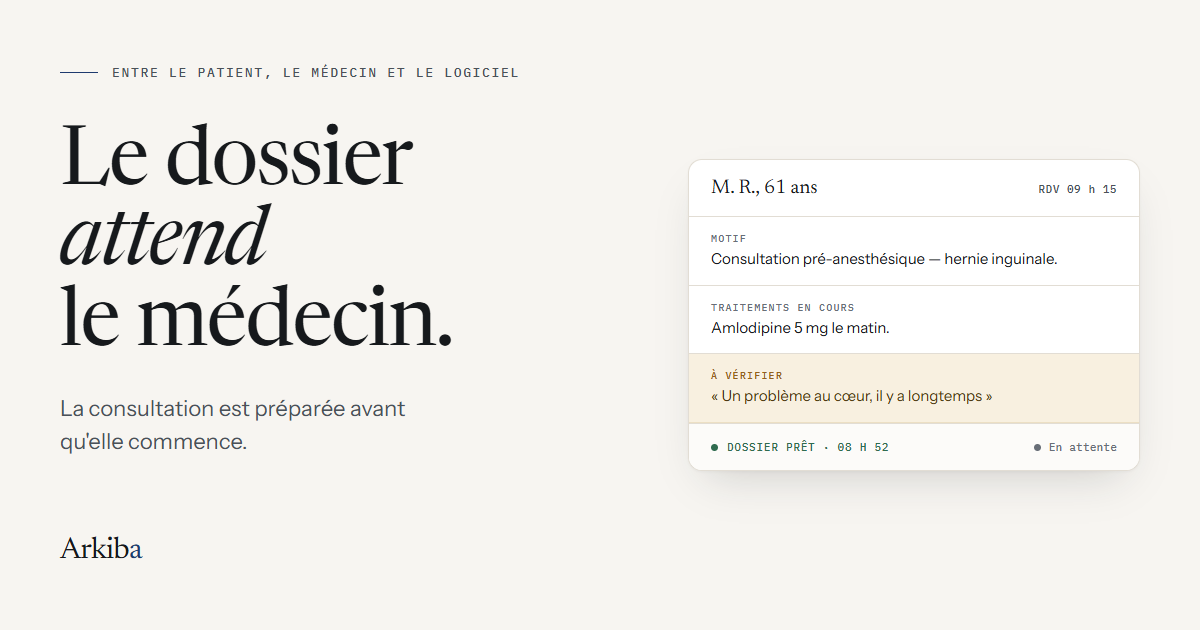
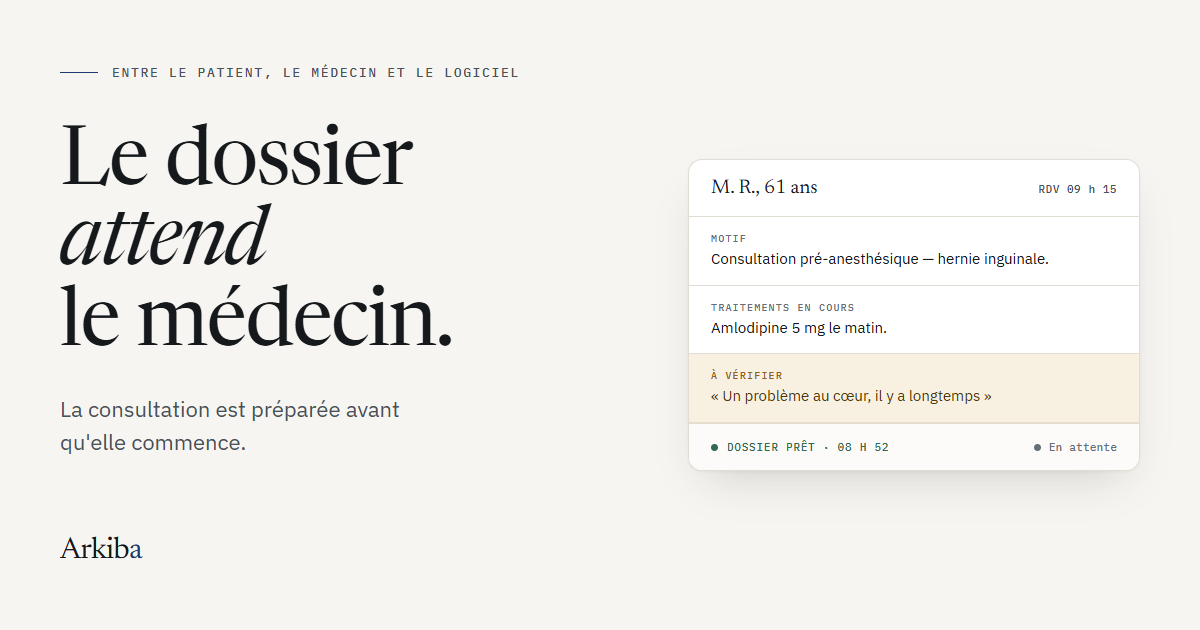
fix(vitrine): IBM Plex Sans, et le fil s'encre par transform au lieu de height
Deux corrections relevees par le detecteur de design, toutes deux fondees.

Instrument Sans etait le mauvais choix. Associee a un serif de titrage, elle
produit exactement la page « landing generee » que le projet refuse. IBM Plex
Sans la remplace : elle partage son squelette avec Plex Mono, deja charge
pour les libelles et les heures, donc le texte courant et les metadonnees
machine riment enfin au lieu d'etre deux fontes voisines. Le caractere
institutionnel sert aussi un produit medico-administratif.

Le trait du fil animait `height` a chaque etape franchie. Meme sur un
pseudo-element absolu de 1 px, `transform: scaleY()` avec `transform-origin:
top` donne un rendu identique au pixel pres et se compose sans repasser par
la mise en page.

Verifie a 1440, 1280, 1024, 834 et 390 px : aucun debordement, aucune cible
sous 44 px, le fil s'encre toujours par etape et livre ses champs au dossier.
Image OpenGraph regeneree avec la nouvelle fonte. 321 tests au vert.

Claude-Session: https://claude.ai/code/session_01Df2PuUe4Y8RFcsbkPhyg7Y

diff --git a/public/site.css b/public/site.css
@@ -56,7 +56,7 @@
 
   /* Typographie */
   --serif: "Newsreader", "Iowan Old Style", Georgia, "Times New Roman", serif;
-  --sans:  "Instrument Sans", ui-sans-serif, system-ui, -apple-system, "Segoe UI", Helvetica, Arial, sans-serif;
+  --sans:  "IBM Plex Sans", ui-sans-serif, system-ui, -apple-system, "Segoe UI", Helvetica, Arial, sans-serif;
   --mono:  "IBM Plex Mono", ui-monospace, SFMono-Regular, Menlo, Consolas, monospace;
 
   /* Rayons — volontairement serrés. Le « tout arrondi » est ce qui fait
@@ -399,12 +399,16 @@ h2 + .lead, h1 + .lead { margin-top: 22px; }
   content: ''; position: absolute; left: 4px; top: 30px; bottom: 30px;
   width: 1px; background: var(--rule);
 }
-/* Segment encré : hauteur pilotée par --fil (0 → 1) depuis le script. */
+/* Segment encré : progression pilotée par --fil (0 → 1) depuis le script.
+   Mise à l'échelle plutôt que hauteur animée — sur un trait plein de 1 px le
+   rendu est identique au pixel près, et scaleY se compose sans repasser par
+   la mise en page à chaque image. */
 .fil::after {
-  content: ''; position: absolute; left: 4px; top: 30px;
+  content: ''; position: absolute; left: 4px; top: 30px; bottom: 30px;
   width: 1px; background: var(--bleu);
-  height: calc(var(--fil, 0) * (100% - 60px));
-  transition: height var(--t4) var(--e-out);
+  transform: scaleY(var(--fil, 0));
+  transform-origin: top;
+  transition: transform var(--t4) var(--e-out);
 }
 .etape::before {
   content: ''; position: absolute; left: 0; top: 28px;

diff --git a/public/index.html b/public/index.html
@@ -27,7 +27,7 @@
 
 <link rel="preconnect" href="https://fonts.googleapis.com" />
 <link rel="preconnect" href="https://fonts.gstatic.com" crossorigin />
-<link href="https://fonts.googleapis.com/css2?family=IBM+Plex+Mono:wght@400;500&family=Instrument+Sans:wght@400;500;600&family=Newsreader:ital,opsz,wght@0,6..72,400;0,6..72,500;1,6..72,400&display=swap" rel="stylesheet" />
+<link href="https://fonts.googleapis.com/css2?family=IBM+Plex+Mono:wght@400;500&family=IBM+Plex+Sans:wght@400;500;600&family=Newsreader:ital,opsz,wght@0,6..72,400;0,6..72,500;1,6..72,400&display=swap" rel="stylesheet" />
 <link rel="stylesheet" href="/site.css" />
 
 <!-- Marque la page comme animable AVANT le premier rendu. Sans JavaScript,

diff --git a/.claude/skills/arkiba-design/SKILL.md b/.claude/skills/arkiba-design/SKILL.md
@@ -84,12 +84,20 @@ d'éclaircir quoi que ce soit.
 
 ```css
 --serif: "Newsreader", "Iowan Old Style", Georgia, serif;  /* titres, chiffres de prix */
---sans:  "Instrument Sans", ui-sans-serif, system-ui;      /* texte, interface */
+--sans:  "IBM Plex Sans", ui-sans-serif, system-ui;        /* texte, interface */
 --mono:  "IBM Plex Mono", ui-monospace, Menlo;             /* libellés, heures, méta */
 ```
 
 - **Serif pour tout ce qui argumente.** Ce n'est pas un choix décoratif : les
   courriers et comptes rendus médicaux sont composés en serif.
+- **Plex Sans et Plex Mono partagent le même squelette** : le texte courant et
+  les métadonnées machine riment, ce qui fait un système au lieu de trois
+  fontes voisines. C'est la raison du choix — pas un hasard, ne le défaites pas
+  sans en tenir compte.
+- **Fontes bannies** : Inter, Roboto, Geist, Plus Jakarta Sans, Space Grotesk,
+  Fraunces, Instrument Sans. Elles sont devenues le réglage par défaut des
+  interfaces générées ; associées à un serif de titrage, elles produisent
+  exactement la page « landing IA » que le projet refuse.
 - **Mono pour tout ce qui est machine** : heures, provenances, statuts,
   surtitres. Toujours en capitales, `letter-spacing` de `.1em` à `.13em`,
   taille de `.5625rem` à `.75rem`.
@@ -145,6 +153,11 @@ transitions CSS.
   `--fil` (0 → 1) et livre ses champs au dossier collant d'en face. Position
   discrète par étape, pas de scrub lié au défilement : rien à recalculer à
   chaque image, rien qui saccade sur mobile.
+- **N'animez jamais `width`, `height`, `padding` ni `margin`.** Le trait du fil
+  se pilote en `transform: scaleY(var(--fil))` avec `transform-origin: top` :
+  sur un trait plein le rendu est identique au pixel près, sans mise en page.
+  Pour ouvrir un bloc en hauteur, `grid-template-rows: 0fr → 1fr` (le menu
+  mobile s'ouvre comme ça).
 - **`prefers-reduced-motion` coupe tout** et applique les états finaux
   immédiatement. Vérifié : 52/52 éléments visibles, fil complet, respiration
   arrêtée.
